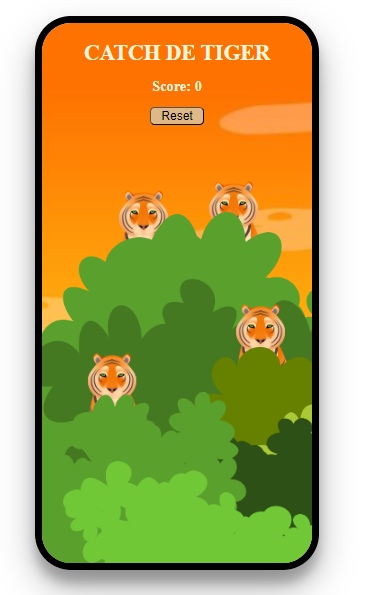
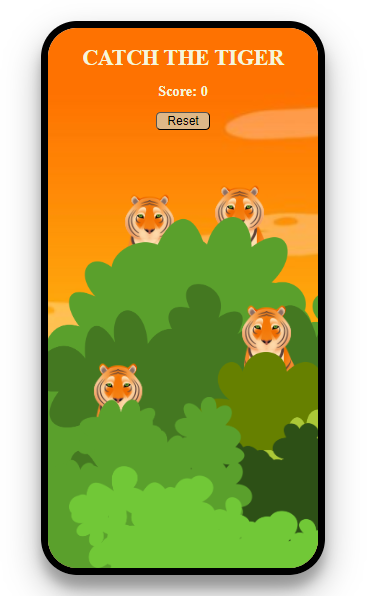
correcciones de imagen

diff --git a/index.html b/index.html
@@ -10,7 +10,7 @@
     <div class="phone">
         <img class="background-img" src="img/background.PNG" alt="">
         <div class="titles">
-            <h1>CATCH DE TIGER</h1>
+            <h1>CATCH THE TIGER</h1>
             <h2>Score: <span id="contador">0</span></h2>
             <button class="reset" onclick="reiniciarContador()">Reset</button>    
         </div>
